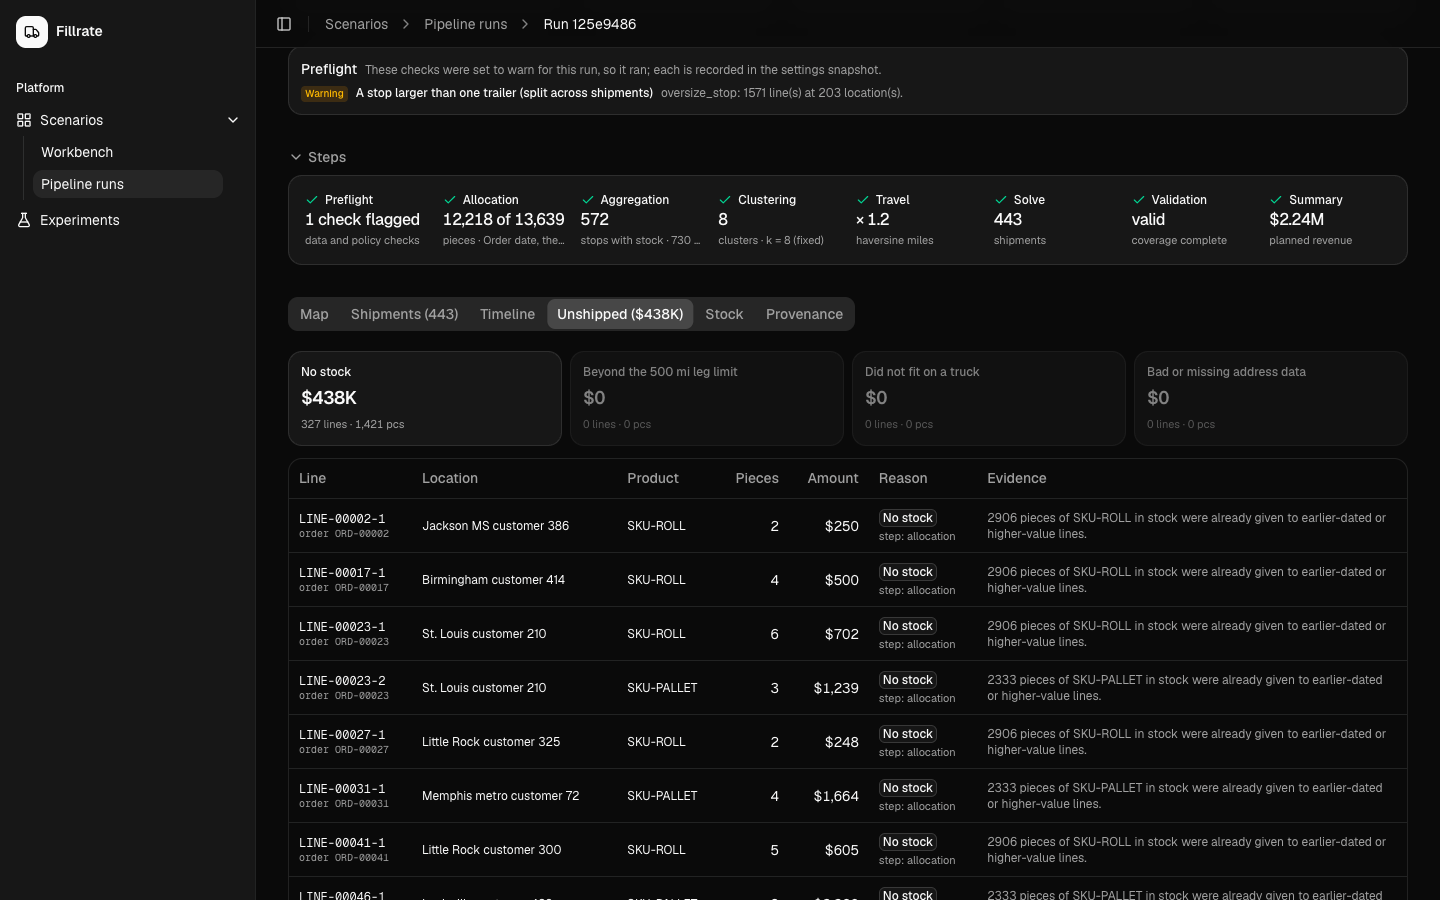
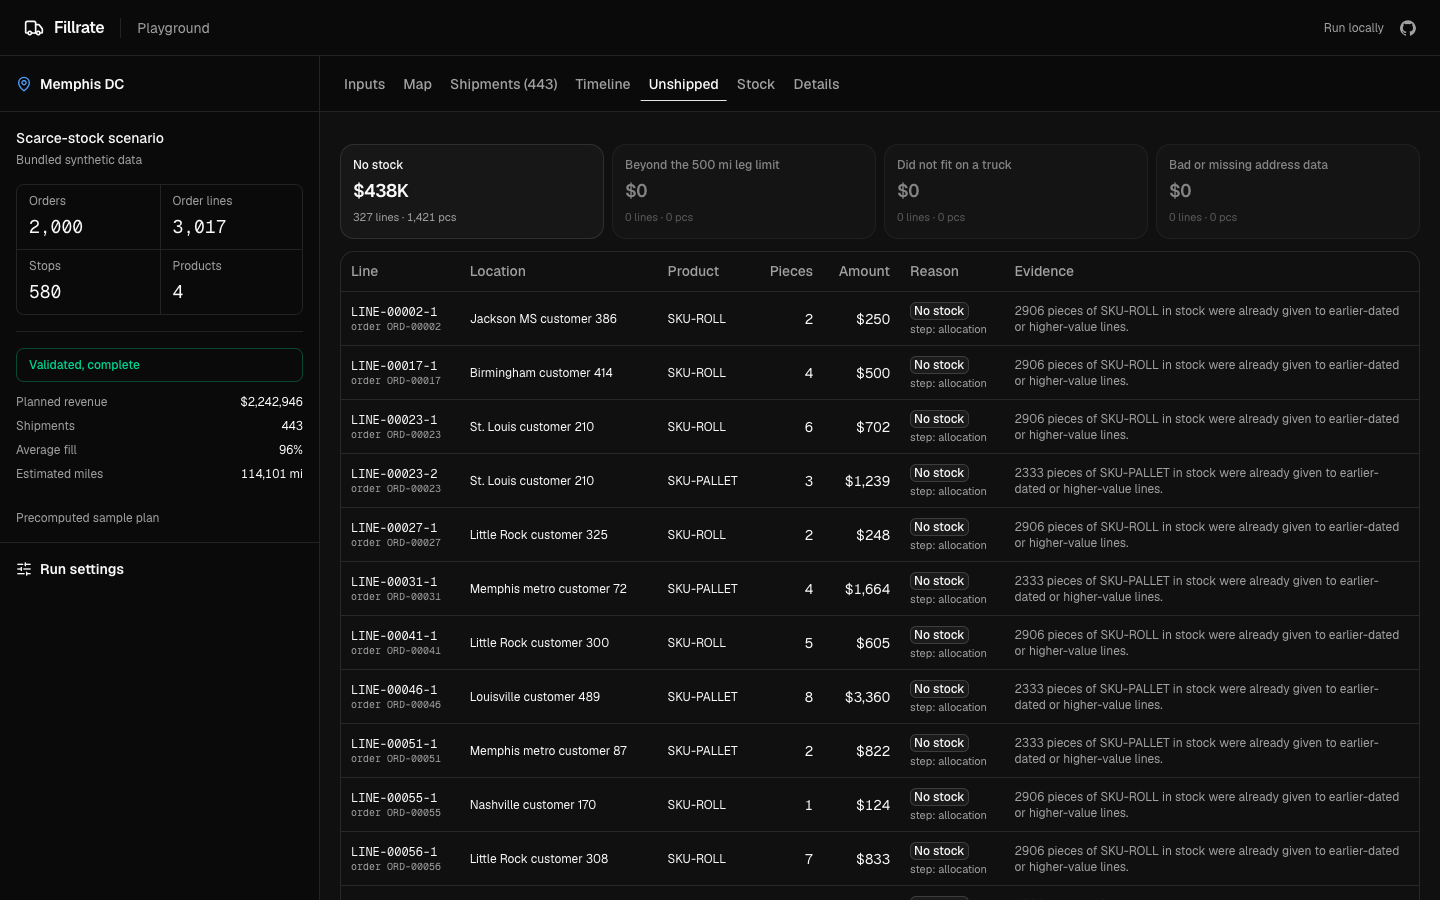
Replace README screenshots with the current playground

diff --git a/README.md b/README.md
@@ -9,7 +9,7 @@
   <a href="LICENSE">MIT license</a>
 </p>
 
-<p align="center"><img src="docs/screenshots/run-map.png" alt="A run of the 2,000-order example: eight delivery clusters around a Memphis depot, with revenue, shipment count and trailer fill per cluster" width="900"></p>
+<p align="center"><img src="docs/screenshots/map.png" alt="The playground map for the 2,000-order example: eight delivery clusters around a Memphis depot, with revenue, shipment count and trailer fill per cluster" width="900"></p>
 
 When stock is short and trucks are finite, Fillrate answers three questions for a single depot shipping on 53 ft trailers: **which order lines get the stock, how stops group into delivery areas, and how many full trucks it takes.** Every plan is checked by an independent validator and explains why each line did or didn't ship.
 
@@ -26,10 +26,10 @@ Distances are straight-line miles × a circuity factor (default 1.2). Roads neve
 
 | | |
 |---|---|
-| ![Run summary: revenue, shipments, trailer fill, miles and pipeline steps](docs/screenshots/run-summary.png) | ![Unshipped lines grouped by reason, with evidence for each](docs/screenshots/unshipped.png) |
-| **Run summary.** Headline numbers, preflight checks and each pipeline step. | **Unshipped.** Every line that didn't ship, why, and the evidence. |
-| ![Scenario workbench with the 2,000-order example open: depot, data review and saved versions](docs/screenshots/workbench.png) | ![Hosted playground with its precomputed sample plan](docs/screenshots/playground.png) |
-| **Workbench.** Open a saved scenario or example, review and fix data, save versions, then run. | **Playground.** The public site: explore a precomputed, validated plan for the sample. |
+| ![Input inspection: stop distribution, available stock against demand, and open orders](docs/screenshots/inputs.png) | ![Shipments with trailer fill, stops, linear feet, loaded miles and value](docs/screenshots/shipments.png) |
+| **Inputs.** Where the stops are, how much stock covers demand, and the open orders. | **Shipments.** Every truck with its trailer fill, stops, miles and value. |
+| ![Timeline of one shipment along its road path, stop by stop](docs/screenshots/timeline.png) | ![Unshipped lines grouped by reason, with evidence for each](docs/screenshots/unshipped.png) |
+| **Timeline.** Step through a shipment's drive, stop by stop, on its road path. | **Unshipped.** Every line that didn't ship, why, and the evidence. |
 
 ## Features
 
